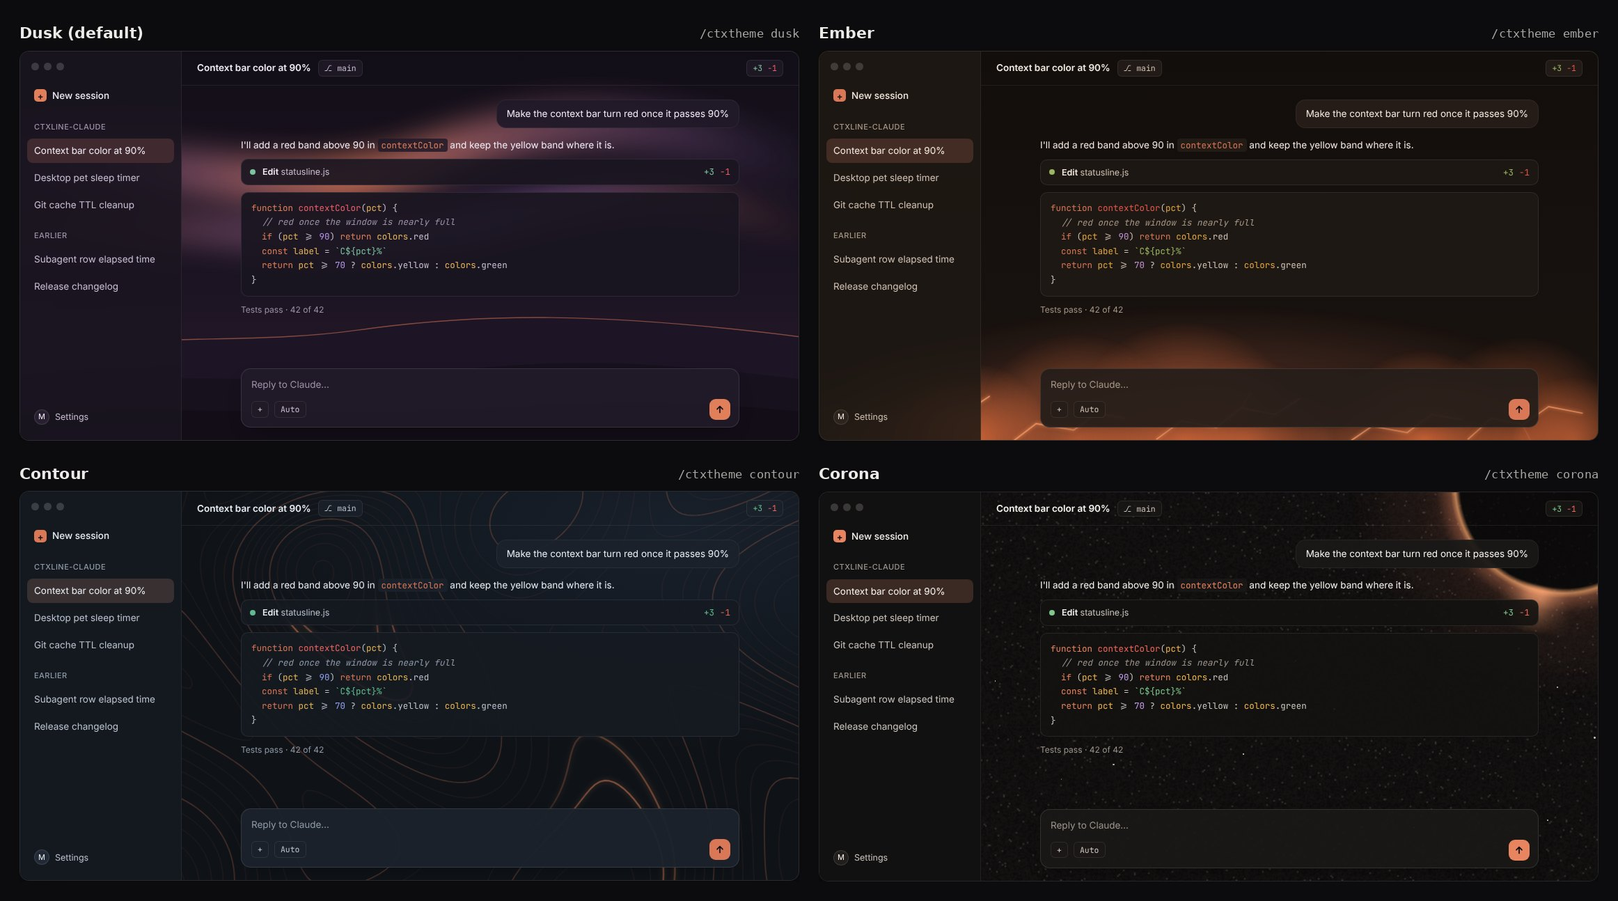
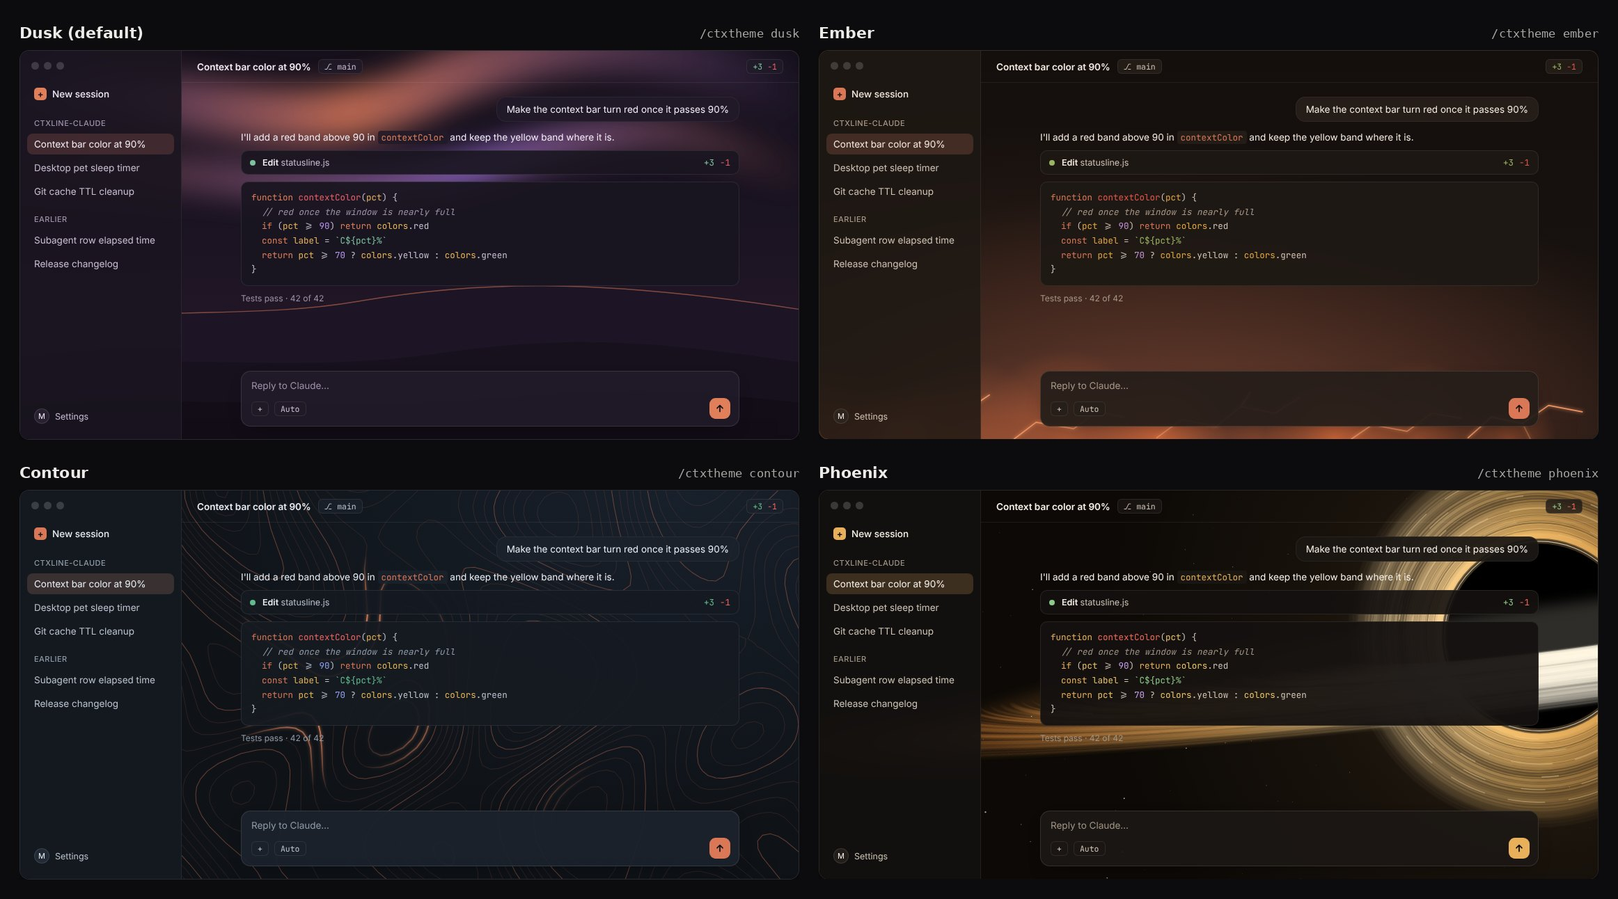
feat(desktop-themes): replace Corona with Phoenix, a gold black hole
- New fourth style `phoenix` (/ctxtheme phoenix) in place of `corona`:
  a large black hole on the right edge with a lensed gold halo and a
  striped disk streaming out to the left. No back half of the disk is
  drawn (the halo is the far side, bent round) and the rings start
  outside the halo, so nothing crosses it.
- Gold palette instead of Claude orange (accent #e8b05a dark,
  #a8701c light); no blocking contrast problems.
- Site card, exported backgrounds, README table and preview image,
  descriptions ("three in Claude orange and one in gold"), CLAUDE.md
  and tests updated.

Claude-Session: https://claude.ai/code/session_01WF7ruaGr6WHfPjwHEV7keo

diff --git a/desktop-themes/hooks/scenes.ts b/desktop-themes/hooks/scenes.ts
@@ -125,67 +125,116 @@ function contour(): string {
   )
 }
 
-// ---------- Corona: an eclipse in the top corner, turning flares, stars ----------
+// ---------- Phoenix: a large gold black hole, its disk streaming out left ----------
 
-// The eclipse's centre sits just off the top-right corner; the scene pins that
-// corner (xMaxYMin) so a narrow or tall window crops the other sides instead.
-const SUN_X = 1520
-const SUN_Y = -16
+// The hole sits on the right edge; the scene pins that side (xMaxYMid) so a
+// narrow or tall window crops the left instead. The halo is the far side of
+// the disk, bent round the hole, so no back half of the disk is drawn, and the
+// disk's rings start outside the halo so nothing crosses it.
+const BH_X = 1480
+const BH_Y = 400
+const HOLE = 190
+const HALO = HOLE + 214
+const TILT = -7
+const FLAT = 0.09 // disk ry = rx * FLAT
 
-function corona(): string {
-  const rnd = seeded(23)
+function phoenix(): string {
+  const rnd = seeded(41)
+
   let dust = ''
-  for (let i = 0; i < 70; i++) {
-    dust += `<circle cx="${f(rnd() * 1600)}" cy="${f(rnd() * 1000)}" r="${f(0.5 + rnd() * 0.8)}"/>`
+  for (let i = 0; i < 90; i++) {
+    dust += `<circle cx="${f(rnd() * 1600)}" cy="${f(rnd() * 1000)}" r="${f(0.4 + rnd() * 0.8)}"/>`
   }
   let stars = ''
-  for (let i = 0; i < 26; i++) {
-    stars += `<circle class="star" cx="${f(rnd() * 1600)}" cy="${f(rnd() * 1000)}" r="${f(0.9 + rnd() * 0.9)}" style="animation-duration:${f(2.5 + rnd() * 4)}s;animation-delay:-${f(rnd() * 5)}s"/>`
+  for (let i = 0; i < 24; i++) {
+    stars += `<circle class="star" cx="${f(rnd() * 1100)}" cy="${f(rnd() * 1000)}" r="${f(0.8 + rnd() * 0.9)}" style="animation-duration:${f(2.5 + rnd() * 4)}s;animation-delay:-${f(rnd() * 5)}s"/>`
   }
-  const origin = `transform-origin:${SUN_X}px ${SUN_Y}px`
+
+  // The front half of a disk ring, right to left, below the centre line.
+  const front = (rx: number): string => `M${f(rx)} 0A${f(rx)} ${f(rx * FLAT)} 0 0 1 ${f(-rx)} 0`
+
+  // Striated disk: many thin rings, brighter and denser near the hole.
+  let disk = ''
+  const RINGS = 64
+  for (let i = 0; i < RINGS; i++) {
+    const t = i / (RINGS - 1)
+    const width = 1.5 + rnd() * 6
+    const opacity = Math.pow(1 - t, 0.7) * (0.35 + rnd() * 0.65)
+    disk += `<path d="${front(HALO + 8 + Math.pow(t, 1.15) * 1300)}" style="stroke-width:${f(width)};opacity:${opacity.toFixed(2)}"/>`
+  }
+
+  // Streaks flowing round the disk, inner ones faster.
+  let flow = ''
+  for (let i = 0; i < 12; i++) {
+    const dash = `${f(20 + rnd() * 70)} ${f(60 + rnd() * 160)}`
+    const period = dash.split(' ').reduce((a, b) => a + Number(b), 0)
+    flow += `<path class="flow" d="${front(HALO + 12 + Math.pow(i / 11, 1.2) * 650)}" style="stroke-width:${f(1 + rnd() * 2.5)};stroke-dasharray:${dash};--p:-${f(period * 4)}px;animation-duration:${f(5 + i * 1.6)}s"/>`
+  }
+
+  // Lensed halo rings, then a turning texture over them.
+  let halo = ''
+  const HALO_RINGS = 36
+  for (let j = 0; j < HALO_RINGS; j++) {
+    const t = j / (HALO_RINGS - 1)
+    const width = 1.5 + rnd() * 6
+    const opacity = Math.pow(1 - t, 1.4) * (0.4 + rnd() * 0.6)
+    halo += `<circle cx="${BH_X}" cy="${BH_Y}" r="${f(HOLE + 14 + Math.pow(t, 1.15) * 200)}" style="stroke-width:${f(width)};opacity:${opacity.toFixed(2)}"/>`
+  }
+  let swirl = ''
+  for (let k = 0; k < 6; k++) {
+    swirl += `<circle class="${k % 2 ? 'spinR' : 'spin'}" cx="${BH_X}" cy="${BH_Y}" r="${HOLE + 22 + k * 26}" style="stroke-width:${f(1.5 + rnd() * 2)};stroke-dasharray:${f(30 + rnd() * 90)} ${f(40 + rnd() * 140)};animation-duration:${f(60 + k * 18)}s"/>`
+  }
+
+  const plane = `transform="translate(${BH_X} ${BH_Y}) rotate(${TILT})"`
+  const origin = `transform-origin:${BH_X}px ${BH_Y}px`
 
   const style =
-    '.bg{fill:#0b0a0a}.disc{fill:#0b0a0a}' +
-    '.k0{stop-color:rgba(255,170,110,.95)}.k1{stop-color:rgba(232,132,95,.55)}.k2{stop-color:rgba(217,119,87,.18)}.k3{stop-color:rgba(217,119,87,0)}' +
-    '.o0{stop-color:rgba(217,119,87,0)}.o1{stop-color:rgba(217,119,87,.1)}' +
-    '.ring{fill:none;stroke:rgba(255,186,140,.9);stroke-width:3}' +
-    '.flare{fill:none;stroke:rgba(255,165,115,.75)}' +
-    '.dust{fill:rgba(255,236,222,.35)}.star{fill:#fff3ea;opacity:.2;animation:twinkle ease-in-out infinite}' +
-    `.sun{${origin};animation:breathe 5s ease-in-out infinite}` +
-    `.spin{${origin};animation:spin 26s linear infinite}` +
-    `.spin2{${origin};animation:spin 40s linear infinite reverse;opacity:.7}` +
-    '.shoot{opacity:0;animation:shoot 7s ease-in 1s infinite}' +
-    '@keyframes breathe{0%,100%{transform:scale(1);opacity:.7}50%{transform:scale(1.06);opacity:1}}' +
+    '.bg{fill:#0c0906}.hole{fill:#000}' +
+    '.h0{stop-color:rgba(255,214,150,.16)}.h1{stop-color:rgba(255,190,110,.05)}.h2{stop-color:rgba(255,190,110,0)}' +
+    // Disk colour by distance: cream near the hole, then gold, amber, bronze.
+    '.k0{stop-color:#fff6e2}.k1{stop-color:#fbd897}.k2{stop-color:#eeb05e}.k3{stop-color:#b8702f}.k4{stop-color:#5e3417}' +
+    // Halo: brighter on the left.
+    '.l0{stop-color:#ffe6b8}.l1{stop-color:#f2bd6a}.l2{stop-color:#b5762f}' +
+    '.disk path{fill:none;stroke:url(#dg)}.halo circle{fill:none;stroke:url(#hg)}' +
+    '.flow{fill:none;stroke:#fff1d6;stroke-linecap:round;opacity:.45;animation:flow linear infinite}' +
+    `.spin,.spinR{fill:none;stroke:#ffe4b0;opacity:.3;${origin};animation:spin linear infinite}.spinR{animation-direction:reverse}` +
+    '.ring{fill:none;stroke:#fff6e4;stroke-width:1.6}' +
+    `.pulse{${origin};animation:pulse 7s ease-in-out infinite}` +
+    '.dust{fill:rgba(255,240,220,.35)}.star{fill:#fff6ea;opacity:.2;animation:twinkle ease-in-out infinite}' +
+    '@keyframes flow{to{stroke-dashoffset:var(--p)}}' +
     '@keyframes spin{to{transform:rotate(360deg)}}' +
+    '@keyframes pulse{0%,100%{opacity:.7}50%{opacity:1}}' +
     '@keyframes twinkle{0%,100%{opacity:.12}50%{opacity:.95}}' +
-    '@keyframes shoot{0%{opacity:0;transform:translateX(0)}2%{opacity:1}9%,100%{opacity:0;transform:translateX(760px)}}' +
     '@media (prefers-color-scheme:light){' +
-    '.bg{fill:url(#day)}.disc{fill:#fbf8f5}' +
-    '.k0{stop-color:rgba(226,120,80,.85)}.k1{stop-color:rgba(232,140,100,.35)}.k2{stop-color:rgba(232,150,110,.12)}.k3{stop-color:rgba(232,150,110,0)}' +
-    '.o1{stop-color:rgba(217,119,87,.08)}' +
-    '.ring{stroke:rgba(214,108,66,.85)}.flare{stroke:rgba(226,120,80,.6)}' +
-    '.dust,.star,.shooter{display:none}}'
+    '.bg{fill:url(#day)}.hole{fill:#120d09}' +
+    '.h0{stop-color:rgba(214,150,70,.14)}.h1{stop-color:rgba(214,150,70,.04)}' +
+    '.k0{stop-color:#fff3dc}.k1{stop-color:#f1c172}.k2{stop-color:#d8913f}.k3{stop-color:#9a5a24}.k4{stop-color:#5e3417}' +
+    '.l0{stop-color:#ffeccc}.l1{stop-color:#e9b464}.l2{stop-color:#a8692e}' +
+    '.dust,.star{display:none}}'
 
   return svg(
-    'xMaxYMin slice',
+    'xMaxYMid slice',
     style,
     '<defs>' +
-      '<radialGradient id="day" cx=".9" cy="0" r="1"><stop offset="0" stop-color="#f7f3ef"/><stop offset=".7" stop-color="#ebe8e5"/></radialGradient>' +
-      '<radialGradient id="corona"><stop offset=".66" class="k0"/><stop offset=".71" class="k1"/><stop offset=".8" class="k2"/><stop offset="1" class="k3"/></radialGradient>' +
-      '<radialGradient id="halo"><stop offset=".6" class="o0"/><stop offset=".72" class="o1"/><stop offset="1" class="o0"/></radialGradient>' +
-      '<linearGradient id="trail"><stop offset="0" stop-color="#ffd9c2" stop-opacity="0"/><stop offset="1" stop-color="#ffd9c2"/></linearGradient>' +
-      '<filter id="soft" x="-30%" y="-30%" width="160%" height="160%"><feGaussianBlur stdDeviation="7"/></filter>' +
-      '<filter id="edge"><feGaussianBlur stdDeviation="1"/></filter>' +
+      '<radialGradient id="day" cx=".85" cy=".4" r="1"><stop offset="0" stop-color="#f6efe4"/><stop offset=".75" stop-color="#ece5da"/></radialGradient>' +
+      '<radialGradient id="haze"><stop offset="0" class="h0"/><stop offset=".5" class="h1"/><stop offset="1" class="h2"/></radialGradient>' +
+      '<radialGradient id="dg" gradientUnits="userSpaceOnUse" cx="0" cy="0" r="1620"><stop offset=".14" class="k0"/><stop offset=".24" class="k1"/><stop offset=".42" class="k2"/><stop offset=".7" class="k3"/><stop offset="1" class="k4"/></radialGradient>' +
+      `<linearGradient id="hg" gradientUnits="userSpaceOnUse" x1="${BH_X - 420}" y1="0" x2="${BH_X + 420}" y2="0"><stop offset="0" class="l0"/><stop offset=".45" class="l1"/><stop offset="1" class="l2"/></linearGradient>` +
+      // Fades the disk's top edge, where each ring's tip curls, into one smooth band.
+      '<linearGradient id="fadeY" gradientUnits="userSpaceOnUse" x1="0" y1="2" x2="0" y2="40"><stop offset="0" stop-color="#000"/><stop offset="1" stop-color="#fff"/></linearGradient>' +
+      '<mask id="edge" maskUnits="userSpaceOnUse" x="-1900" y="-100" width="2400" height="400"><rect x="-1900" y="-100" width="2400" height="400" fill="url(#fadeY)"/></mask>' +
+      '<filter id="soft" x="-30%" y="-30%" width="160%" height="160%"><feGaussianBlur stdDeviation="14"/></filter>' +
+      '<filter id="bloom" x="-10%" y="-10%" width="120%" height="120%"><feGaussianBlur stdDeviation="2" result="b"/><feMerge><feMergeNode in="b"/><feMergeNode in="SourceGraphic"/></feMerge></filter>' +
       '</defs>' +
       '<rect class="bg" width="1600" height="1000"/>' +
       `<g class="dust">${dust}</g>${stars}` +
-      '<g class="shooter" transform="translate(110 150) rotate(20)"><line class="shoot" x1="0" y1="0" x2="240" y2="0" stroke="url(#trail)" stroke-width="2.4" stroke-linecap="round"/></g>' +
-      `<circle cx="${SUN_X}" cy="${SUN_Y}" r="560" fill="url(#halo)"/>` +
-      `<g class="sun"><circle cx="${SUN_X}" cy="${SUN_Y}" r="262" fill="url(#corona)"/>` +
-      `<circle class="disc" cx="${SUN_X}" cy="${SUN_Y}" r="174"/>` +
-      `<circle class="ring" cx="${SUN_X}" cy="${SUN_Y}" r="175" filter="url(#edge)"/></g>` +
-      `<g filter="url(#soft)"><circle class="flare spin" cx="${SUN_X}" cy="${SUN_Y}" r="192" stroke-width="34" stroke-dasharray="70 200 40 250 95 180 50 230"/>` +
-      `<circle class="flare spin2" cx="${SUN_X}" cy="${SUN_Y}" r="204" stroke-width="22" stroke-dasharray="40 260 80 220 30 300 60 240"/></g>`,
+      `<circle cx="${BH_X}" cy="${BH_Y}" r="900" fill="url(#haze)"/>` +
+      `<circle cx="${BH_X}" cy="${BH_Y}" r="${HOLE + 90}" fill="none" stroke="url(#hg)" stroke-width="170" opacity=".28" filter="url(#soft)"/>` +
+      `<g class="halo" filter="url(#bloom)">${halo}</g>${swirl}` +
+      `<circle class="hole" cx="${BH_X}" cy="${BH_Y}" r="${HOLE}"/>` +
+      `<circle class="ring pulse" cx="${BH_X}" cy="${BH_Y}" r="${HOLE + 5}"/>` +
+      `<g ${plane}><ellipse rx="1200" ry="${f(1200 * FLAT * 0.9)}" cy="${f(1200 * FLAT * 0.35)}" fill="url(#dg)" opacity=".18" filter="url(#soft)"/></g>` +
+      `<g ${plane} mask="url(#edge)"><g class="disk" filter="url(#bloom)">${disk}</g>${flow}</g>`,
   )
 }
 
@@ -228,13 +277,13 @@ function dusk(): string {
 export const SCENES: Record<StyleId, string> = {
   ember: ember(),
   contour: contour(),
-  corona: corona(),
+  phoenix: phoenix(),
   dusk: dusk(),
 }
 
 export const SCENE_ALT: Record<StyleId, string> = {
   ember: 'Glowing coals and cracks of heat along the bottom of a warm charcoal background',
   contour: 'Orange topographic map lines drifting slowly over a blue-slate background',
-  corona: 'An eclipse with turning orange flares in the top corner of a near-black starry sky',
+  phoenix: 'A large gold black hole on the right edge, its striped disk streaming out to the left',
   dusk: 'Orange and violet light ribbons swaying above layered dusk hills',
 }

diff --git a/desktop-themes/hooks/looks.ts b/desktop-themes/hooks/looks.ts
@@ -6,7 +6,7 @@ import { makeColors } from './make-colors.js'
 // both modes (makeColors turns a few anchors and role seeds into the app's ~100
 // colors) plus an animated backdrop scene of the same id (scenes.ts).
 
-export const STYLE_IDS = ['ember', 'contour', 'corona', 'dusk'] as const
+export const STYLE_IDS = ['ember', 'contour', 'phoenix', 'dusk'] as const
 export type StyleId = (typeof STYLE_IDS)[number]
 
 export const DEFAULT_STYLE: StyleId = 'dusk'
@@ -101,38 +101,39 @@ export const LOOKS: Record<StyleId, Look> = {
     },
   }),
 
-  corona: look('Corona', 'near-black, an eclipse with turning flares, twinkling stars', { blur: 16, opacity: 0.6 }, {
-    label: 'ctxline Corona',
-    id: 'ctxline-corona',
-    roles: { accent: '#e8845f', danger: '#f2665b', success: '#7fc78c', warning: '#f0b64b', pro: '#c99df2' },
+  phoenix: look('Phoenix', 'warm black, a large gold black hole with a striped disk', { blur: 16, opacity: 0.6 }, {
+    label: 'ctxline Phoenix',
+    id: 'ctxline-phoenix',
+    // Gold instead of Claude orange, to match the black hole.
+    roles: { accent: '#e8b05a', danger: '#f06a5b', success: '#8fca8a', warning: '#e9c46a', pro: '#c9a0f0' },
     dark: {
       gray: {
         anchors: {
-          'surface-0': '#0b0a0a',
-          'surface-1': '#131211',
-          'surface-2': '#1a1817',
-          'surface-3': '#211e1c',
-          'text-primary': '#f6f2ee',
-          'text-secondary': '#cbc4bd',
-          'text-muted': '#9c948c',
+          'surface-0': '#0c0a08',
+          'surface-1': '#141110',
+          'surface-2': '#1b1714',
+          'surface-3': '#221d19',
+          'text-primary': '#f7f1e8',
+          'text-secondary': '#cdc3b5',
+          'text-muted': '#9f9484',
         },
       },
-      git: { added: '#7fc78c', removed: '#f2665b' },
+      git: { added: '#8fca8a', removed: '#f06a5b' },
     },
     light: {
       gray: {
         anchors: {
-          'surface-0': '#ebe8e5',
-          'surface-1': '#f3f1ef',
-          'surface-2': '#fbfaf9',
-          'surface-3': '#fbfaf9',
-          'text-primary': '#141210',
-          'text-secondary': '#45403b',
-          'text-muted': '#6b645d',
+          'surface-0': '#ece6dc',
+          'surface-1': '#f4efe8',
+          'surface-2': '#fbf9f5',
+          'surface-3': '#fbf9f5',
+          'text-primary': '#17130e',
+          'text-secondary': '#4a4238',
+          'text-muted': '#6e6457',
         },
       },
-      roles: { accent: '#d2693f', danger: '#c93f35', success: '#3f8a4c', warning: '#a8730d', pro: '#8452c4' },
-      git: { added: '#3f8a4c', removed: '#c93f35' },
+      roles: { accent: '#a8701c', danger: '#c4402f', success: '#3d8546', warning: '#8f6a00', pro: '#7f52c0' },
+      git: { added: '#3d8546', removed: '#c4402f' },
     },
   }),
 

diff --git a/docs/index.html b/docs/index.html
@@ -224,7 +224,7 @@
   .t-dusk{--s0:#141019;--s2:#211a28;--tp:#f1ebf5;--tm:#9d91a8;--ac:#e07f5a}
   .t-ember{--s0:#17120f;--s2:#261e19;--tp:#f3e9df;--tm:#a69686;--ac:#d97757}
   .t-contour{--s0:#0f1318;--s2:#1b222b;--tp:#e8edf3;--tm:#8f9aa7;--ac:#d97757}
-  .t-corona{--s0:#0b0a0a;--s2:#1a1817;--tp:#f6f2ee;--tm:#9c948c;--ac:#e8845f}
+  .t-phoenix{--s0:#0c0a08;--s2:#1b1714;--tp:#f7f1e8;--tm:#9f9484;--ac:#e8b05a}
   .themes+.insp-hint{max-width:62ch;margin-left:auto;margin-right:auto}
   @media(max-width:700px){.themes{grid-template-columns:1fr}}
   @media(max-width:640px){
@@ -526,8 +526,8 @@
   <section class="block" id="themes">
     <div class="sec-head">
       <span class="kicker">Desktop themes</span>
-      <h2>Four looks in Claude orange</h2>
-      <p>A second plugin, ctxline themes, restyles the desktop app with dark looks built around Claude orange. Each has a light version and a softly animated background.</p>
+      <h2>Four dark looks for the desktop app</h2>
+      <p>A second plugin, ctxline themes, restyles the desktop app. Three looks are built around Claude orange and one around gold. Each has a light version and a softly animated background.</p>
     </div>
     <div class="themes">
       <figure class="theme t-dusk">
@@ -563,16 +563,16 @@
         </div>
         <figcaption><b>Contour</b><code>/ctxtheme contour</code><span class="what">Blue-slate. Map lines drift; bands of them light up and fade.</span></figcaption>
       </figure>
-      <figure class="theme t-corona">
+      <figure class="theme t-phoenix">
         <div class="shot">
-          <img src="assets/themes/corona.svg" alt="Corona: an eclipse with turning orange flares in the top corner of a near-black starry sky" loading="lazy">
+          <img src="assets/themes/phoenix.svg" alt="Phoenix: a large gold black hole on the right edge, its striped disk streaming out to the left" loading="lazy">
           <div class="ui" aria-hidden="true">
             <span class="msg">Make the context bar turn red at 90%</span>
             <span class="reply">I'll add a red band in <code>contextColor</code>.</span>
             <span class="box"><span>Reply to Claude…</span><i>↑</i></span>
           </div>
         </div>
-        <figcaption><b>Corona</b><code>/ctxtheme corona</code><span class="what">Near-black. An eclipse with turning flares, stars twinkle.</span></figcaption>
+        <figcaption><b>Phoenix</b><code>/ctxtheme phoenix</code><span class="what">Warm black and gold. A black hole whose disk streams out to the left.</span></figcaption>
       </figure>
     </div>
     <p class="insp-hint">Shown in dark mode. In light mode the app switches each style to its light version. The backgrounds hold still when your system asks for reduced motion.</p>

diff --git a/desktop-themes/hooks/register.tsx b/desktop-themes/hooks/register.tsx
@@ -4,7 +4,7 @@ import { DEFAULT_STYLE, isStyleId, LOOKS, STYLE_IDS } from './looks'
 import type { StyleId } from './looks'
 import { SCENE_ALT, SCENES } from './scenes'
 
-// ctxline-desktop-themes: four dark + Claude-orange looks for the Claude desktop
+// ctxline-desktop-themes: four dark looks (three Claude orange, one gold) for the Claude desktop
 // app, each with a light version and an animated backdrop. `/ctxtheme <style>`
 // switches; the pick is kept in $.store and set again at every session start
 // (a theme is display-only: --resume brings none back).
@@ -61,8 +61,8 @@ export const register: Register = on => {
   on('session.start', async ($, e, next) => {
     await $.command.register({
       name: COMMAND,
-      description: 'Switch the ctxline desktop theme (ember, contour, corona, dusk, off)',
-      argumentHint: '[ember|contour|corona|dusk|off]',
+      description: 'Switch the ctxline desktop theme (ember, contour, phoenix, dusk, off)',
+      argumentHint: '[ember|contour|phoenix|dusk|off]',
       immediate: true,
     })
 

diff --git a/desktop-themes/tests/themes.test.tsx b/desktop-themes/tests/themes.test.tsx
@@ -96,10 +96,10 @@ test('/ctxtheme says why when nothing draws the theme yet', async ($, on) => {
 
   await $.session.start(START)
 
-  const ran = await run('corona')
-  expect(ran.text).toContain('Switched to Corona, but nothing shows it here yet')
+  const ran = await run('phoenix')
+  expect(ran.text).toContain('Switched to Phoenix, but nothing shows it here yet')
   expect(ran.text).toContain('no desktop client attached')
-  expect(store.get('style')).toBe('corona')
+  expect(store.get('style')).toBe('phoenix')
 })
 
 test('the backdrop draws each scene and leaves other plugins alone', async ($, on) => {
@@ -109,7 +109,7 @@ test('the backdrop draws each scene and leaves other plugins alone', async ($, o
     return <Text>engine</Text>
   })
 
-  for (const scene of ['ember', 'contour', 'corona', 'dusk']) {
+  for (const scene of ['ember', 'contour', 'phoenix', 'dusk']) {
     const ui = await $.ui.mount({
       plugin: PLUGIN,
       surface: 'desktop',

diff --git a/CLAUDE.md b/CLAUDE.md
@@ -95,13 +95,13 @@ Validate: `claude plugin validate .` (marketplace) and `claude plugin validate .
 
 `desktop-themes/` — theme mod `ctxline-desktop-themes` (`displayName` "ctxline themes"), own version in its `plugin.json`, listed second in the `ctxline` marketplace. Install: `/plugin install ctxline-desktop-themes@ctxline`. Independent of `ctxline-desktop` (no shared code or state). Not in npm `files`.
 
-Four styles, `ember`, `contour`, `corona`, `dusk` (default, `DEFAULT_STYLE`), each a `$.theme.set({ colors, backdrop: { scene, glass } })`:
+Four styles, `ember`, `contour`, `phoenix`, `dusk` (default, `DEFAULT_STYLE`), each a `$.theme.set({ colors, backdrop: { scene, glass } })`. Three use Claude orange as the accent; `phoenix` (a black hole) uses gold, in its palette and its scene:
 
 - `hooks/looks.ts` — palettes via `makeColors` (anchors `surface-0..3`, `text-*`; roles; git), dark + light per style. Check with `makeColors`'s `problems`: no line may start `Desktop won't paint` (Desktop then drops the whole theme); the other lines still paint.
 - `hooks/scenes.ts` — the four backdrop SVGs (scene id = style id), drawn by the `ui.render` `Backdrop` hook as `<Svg isInteractive>` (desktop/mobile only; another plugin's backdrop → `next`). A scene runs no script: CSS animation in its own `<style>` only; dark first, light in `@media (prefers-color-scheme: light)` (the hook isn't told the mode — whether the sandboxed frame follows the app's mode is untested); still under `prefers-reduced-motion`. Each under 131,072 chars (test-enforced).
 - `hooks/contour-paths.ts` — generated by `node scripts/themes-contour.js` (marching squares → SVG path data for Contour's map lines and glow bands). Never hand-edit; re-run after changing the script.
 - `hooks/make-colors.js` + `.d.ts` — copied verbatim from the plugin-authoring skill; never edit, re-copy when the build updates.
-- `hooks/register.tsx` — `/ctxtheme [ember|contour|corona|dusk|off]` (not `/theme`: built-in, refused); choice in `$.store` key `style` (a style id or `off`), re-applied at every `session.start` (a theme is display-only, `--resume` brings none back). Unreadable store → default style. `off` calls `$.theme.clear()` (clears any plugin's theme — only on the person's ask).
+- `hooks/register.tsx` — `/ctxtheme [ember|contour|phoenix|dusk|off]` (not `/theme`: built-in, refused); choice in `$.store` key `style` (a style id or `off`), re-applied at every `session.start` (a theme is display-only, `--resume` brings none back). Unreadable store → default style. `off` calls `$.theme.clear()` (clears any plugin's theme — only on the person's ask).
 
 Validate + test: `claude plugin validate ./desktop-themes`, `claude plugin test ./desktop-themes` (`tests/themes.test.tsx`; both in CI). Bump `version` with every change meant to ship.
 

diff --git a/README.md b/README.md
@@ -204,10 +204,10 @@ To update by hand, run `claude plugin update ctxline-desktop@ctxline`. To remove
 
 ### Themes
 
-A second plugin, `ctxline-desktop-themes` (shown as **ctxline themes**), restyles the desktop app with four dark looks built around Claude orange. Each one has a light version that the app picks when it's in light mode, and an animated background behind the conversation.
+A second plugin, `ctxline-desktop-themes` (shown as **ctxline themes**), restyles the desktop app with four dark looks: three built around Claude orange and one around gold. Each one has a light version that the app picks when it's in light mode, and an animated background behind the conversation.
 
 <p align="center">
-  <img src="docs/assets/desktop-themes-preview.jpg" alt="The four ctxline themes in dark mode: Dusk, Ember, Contour and Corona">
+  <img src="docs/assets/desktop-themes-preview.jpg" alt="The four ctxline themes in dark mode: Dusk, Ember, Contour and Phoenix">
 </p>
 
 The preview shows dark mode, with each background caught at one moment. See them move at [ctxline.js.org](https://ctxline.js.org/#themes).
@@ -221,7 +221,7 @@ The preview shows dark mode, with each background caught at one moment. See them
 | `dusk` (default) | deep plum | orange and violet light ribbons sway over layered hills |
 | `ember` | warm charcoal | coals along the bottom brighten and dim, cracks of heat pulse |
 | `contour` | blue-slate | orange map lines drift; bands of them light up and fade |
-| `corona` | near-black | an eclipse in the top corner with turning flares, twinkling stars |
+| `phoenix` | warm black and gold | a large black hole on the right edge, its striped disk streaming out to the left |
 
 Switch with `/ctxtheme <style>`. Your pick is remembered for new sessions. `/ctxtheme` on its own lists the styles, and `/ctxtheme off` goes back to the app's own look. The backgrounds hold still when your system asks for reduced motion.
 
